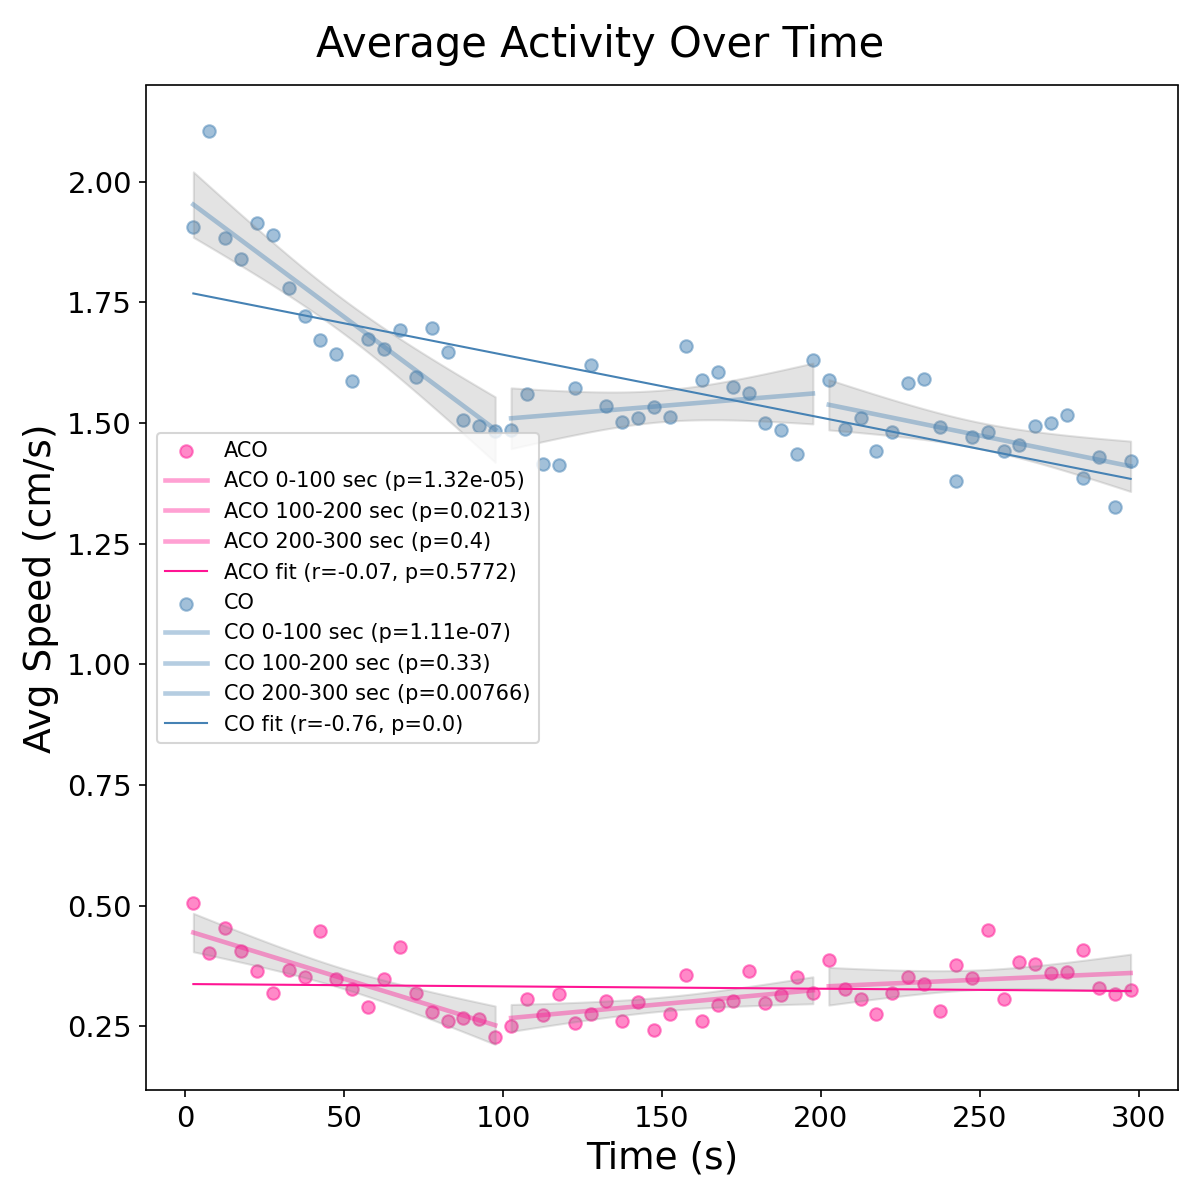
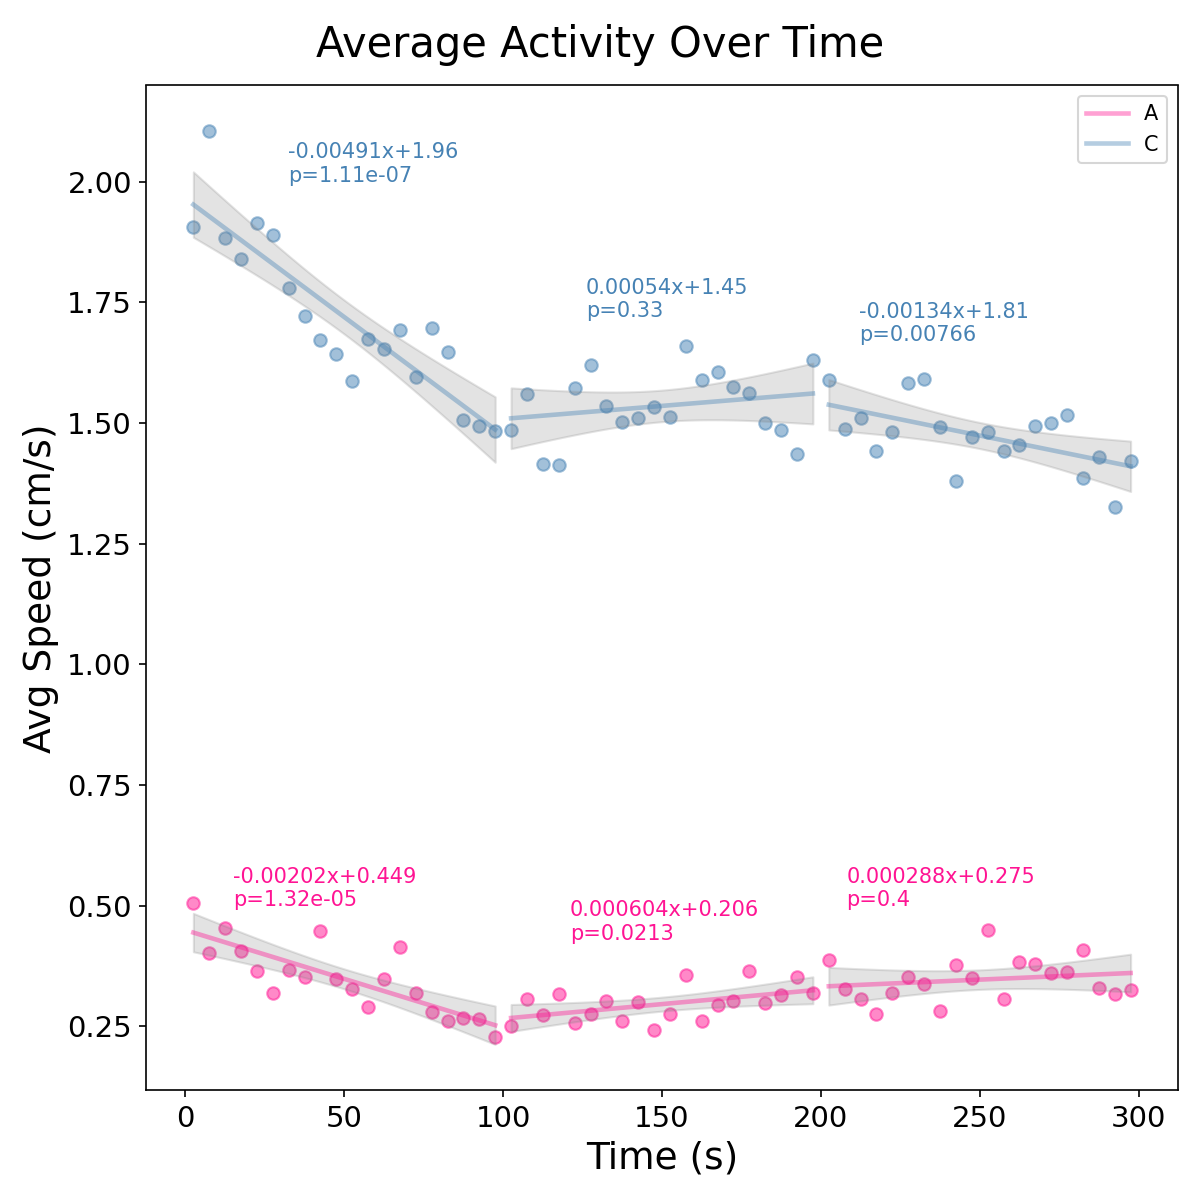
updated calit plot

diff --git a/src/2D_Detection/UROPgraphs.py b/src/2D_Detection/UROPgraphs.py
@@ -86,16 +86,16 @@ for vid_name in test_names:
     speed_info_per_vid[vid_name] = (seconds, list(frame_avg_speed))
 
     # trajectories
-    colors = plt.cm.tab10.colors
-    for i, col in enumerate(id_cols):
-        xy = coords[col]
-        plt.plot(xy["x"], xy["y"], color=colors[i % 10], lw=1, label=col)
-    plt.gca().invert_yaxis()
-    plt.title(f"{vid_name.split('.mov')[0]} Trajectories")
-    plt.xlabel("X (px)")
-    plt.ylabel("Y (px)")
-    plt.savefig(f'./WatershedAlgorithm/CalitPlotswUROPVids/{vid_name}_trajectory.png', dpi=150)
-    plt.close()
+    # colors = plt.cm.tab10.colors
+    # for i, col in enumerate(id_cols):
+    #     xy = coords[col]
+    #     plt.plot(xy["x"], xy["y"], color=colors[i % 10], lw=1, label=col)
+    # plt.gca().invert_yaxis()
+    # plt.title(f"{vid_name.split('.mov')[0]} Trajectories")
+    # plt.xlabel("X (px)")
+    # plt.ylabel("Y (px)")
+    # plt.savefig(f'./WatershedAlgorithm/CalitPlotswUROPVids/{vid_name}_trajectory.png', dpi=150)
+    # plt.close()
 plt.close()
 # raw speed
 vid_names = list(speed_info_per_vid.keys())
@@ -205,7 +205,10 @@ def reg_ci(x, y, xgrid, alpha=0.05):
     ygrid = slope * xgrid + intercept
     tcrit = t.ppf(1 - alpha / 2, df=n - 2)
     ci = tcrit * s_err * np.sqrt(1 / n + (xgrid - xbar) ** 2 / sxx)
-    return ygrid, ygrid - ci, ygrid + ci, p
+    slope = f"{slope:.3g}"
+    intercept = f"{intercept:.3g}"
+    p = f"{p:.3g}"
+    return ygrid, ygrid - ci, ygrid + ci, p, slope, intercept
 
 pop_groups = {"ACO": [], "CO": []}
 
@@ -237,7 +240,7 @@ for pop, style in pop_styles.items():
     sems = np.nanstd(mat, axis=0) / np.sqrt((~np.isnan(mat)).sum(axis=0))
     c = style["color"]
 
-    ax.scatter(bin_centers, means, color=c, alpha=0.5, label=f"{style['label']}")
+    ax.scatter(bin_centers, means, color=c, alpha=0.5)
     # ax.errorbar(bin_centers, means, yerr=sems, fmt="none", color=c, capsize=2, linewidth=0.8, alpha=0.5)
 
     valid = ~np.isnan(means)
@@ -252,8 +255,12 @@ for pop, style in pop_styles.items():
         x1 = x_v[first]
         y1 = y_v[first]
         xgrid1 = np.linspace(x1.min(), x1.max(), 200)
-        yfit1, lo1, hi1, p1 = reg_ci(x1, y1, xgrid1)
-        ax4.plot(xgrid1, yfit1, color=c, lw=2.2, label=f"{style['label']} 0-100 sec (p={p1:.3g})", alpha=0.4)
+        yfit1, lo1, hi1, p1, slope, intercept = reg_ci(x1, y1, xgrid1)
+        ax4.plot(xgrid1, yfit1, color=c, lw=2.2, label=f"{style['label'][0]}", alpha=0.4)
+        if pop=='ACO':
+            ax4.text(15, 0.5, f"{slope}x+{intercept}\np={p1}", color=c)
+        else:
+            ax4.text(32.3, 2, f"{slope}x+{intercept}\np={p1}", color=c)
         ax4.fill_between(xgrid1, lo1, hi1, color="gray", alpha=0.22)
 
     # middle 100s fit
@@ -262,8 +269,12 @@ for pop, style in pop_styles.items():
     x3 = x_v[np.where(np.logical_and(x_v>=100, x_v<=200))]
     y3 = y_v[np.where(np.logical_and(x_v>=100, x_v<=200))]
     xgrid3 = np.linspace(x3.min(), x3.max(), 200)
-    yfit3, lo3, hi3, p3 = reg_ci(x3, y3, xgrid3)
-    ax4.plot(xgrid3, yfit3, color=c, lw=2.2, label=f"{style['label']} 100-200 sec (p={p3:.3g})", alpha=0.4)
+    yfit3, lo3, hi3, p3, slope, intercept = reg_ci(x3, y3, xgrid3)
+    if pop=='ACO':
+        ax4.text(121, 0.43, f"{slope}x+{intercept}\np={p3}", color=c)
+    else:
+        ax4.text(126, 1.72, f"{slope}x+{intercept}\np={p3}", color=c)
+    ax4.plot(xgrid3, yfit3, color=c, lw=2.2, alpha=0.4)
     ax4.fill_between(xgrid3, lo3, hi3, color="gray", alpha=0.22)
 
 
@@ -273,15 +284,19 @@ for pop, style in pop_styles.items():
         x2 = x_v[last]
         y2 = y_v[last]
         xgrid2 = np.linspace(x2.min(), x2.max(), 200)
-        yfit2, lo2, hi2, p2 = reg_ci(x2, y2, xgrid2)
-        ax4.plot(xgrid2, yfit2, color=c, lw=2.2, label=f"{style['label']} 200-300 sec (p={p2:.3g})", alpha=0.4)
+        yfit2, lo2, hi2, p2, slope, intercept = reg_ci(x2, y2, xgrid2)
+        if pop=='ACO':
+            ax4.text(208, 0.5, f"{slope}x+{intercept}\np={p2}", color=c)
+        else:
+            ax4.text(212, 1.67, f"{slope}x+{intercept}\np={p2}", color=c)
+        ax4.plot(xgrid2, yfit2, color=c, lw=2.2, alpha=0.4)
         ax4.fill_between(xgrid2, lo2, hi2, color="gray", alpha=0.22)
 
     slope, intercept, r, p_val, *_ = linregress(x_v, y_v)
     print(pop, p_val)
 
     y_fit = slope * x_v + intercept
-    ax.plot(x_v, y_fit, color=c, lw=1, label=f"{style['label']} fit (r={round(r, 2)}, p={round(p_val, 4)})")
+    # ax.plot(x_v, y_fit, color=c, lw=1, label=f"{style['label']} fit (r={round(r, 2)}, p={round(p_val, 4)})")
 
 
 ax.legend(fontsize=10)
